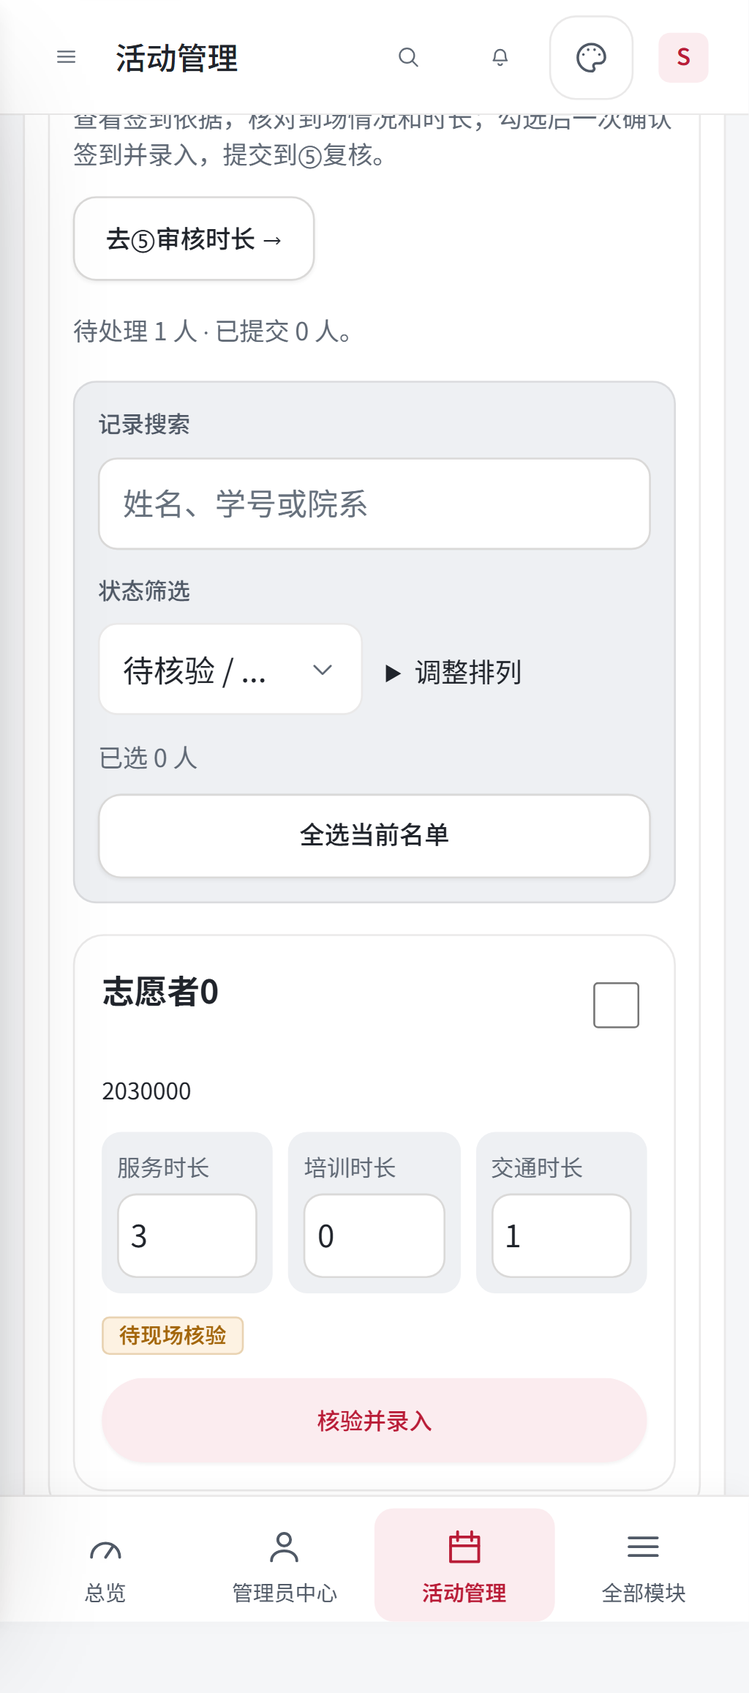
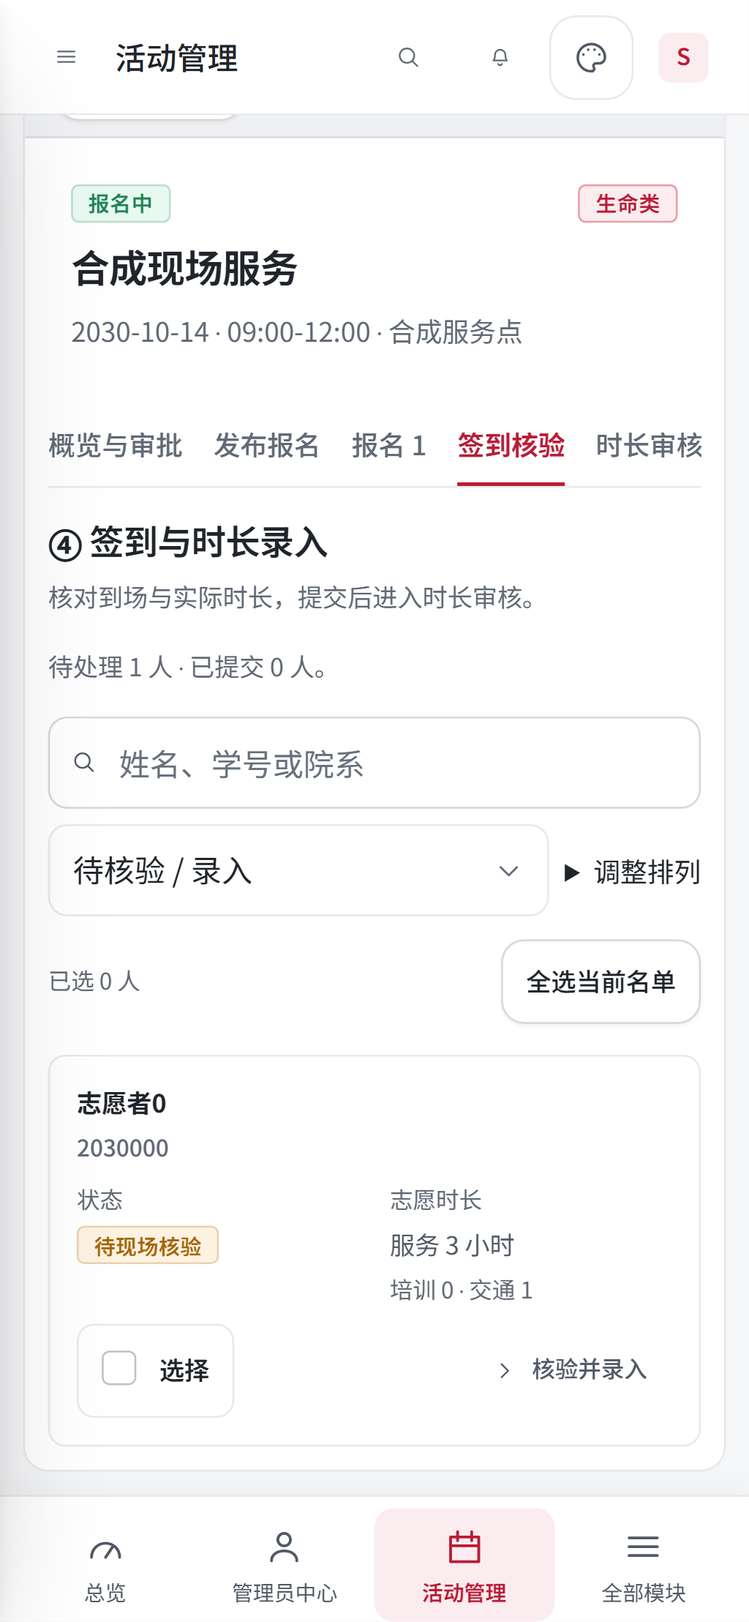
refactor: reuse shared record lists and search in mobile service workspaces

diff --git a/public/styles/admin.css b/public/styles/admin.css
@@ -1306,10 +1306,11 @@ body:has(.form-workspace:not([data-closing])) .toast-root { top:16px; bottom:aut
  .datatable--records table { display:block; min-width:0; width:100%; }
  .datatable--records thead { position:absolute; width:1px; height:1px; overflow:hidden; clip-path:inset(50%); }
  .datatable--records tbody { display:grid; gap:10px; }
- .datatable--records tr { display:grid; grid-template-columns:repeat(2,minmax(0,1fr)); padding:14px; gap:10px 16px; background:var(--surface); border:1px solid var(--border); border-radius:var(--radius-md); }
- .datatable--records td { display:block; border:0; padding:0; min-width:0; max-width:none; white-space:normal; text-align:left; overflow-wrap:anywhere; }
+ .datatable--records tr { display:grid; grid-template-columns:repeat(2,minmax(0,1fr)); padding:14px; gap:10px 16px; background:var(--surface); border:1px solid var(--border); border-radius:var(--r-md); }
+ .datatable--records .table tbody td { display:block; width:auto; height:auto; border:0; padding:0; min-width:0; max-width:none; white-space:normal; text-align:left; overflow-wrap:anywhere; }
  .datatable--records td::before { content:attr(data-label); display:block; font-size:12px; color:var(--text-muted); margin-bottom:4px; }
  .datatable--records td.cell--strong, .datatable--records td:last-child { grid-column:1/-1; }
+ .datatable--records td.cell--strong::before, .datatable--records td[data-label="操作"]::before { display:none; }
  .datatable--records tr[data-clickable="true"] td:not([data-summary="true"]) { display:none; }
  .datatable--records .btn { min-height:44px; }
  .table-pagination .btn { min-height:44px; }
@@ -1888,61 +1889,31 @@ body:has(.form-workspace:not([data-closing])) .toast-root { top:16px; bottom:aut
   }
 }
 
-/* Attendance and hours share the activity center's compact mobile surfaces. */
-@media (max-width:720px) {
+/* Service pages reuse the shared recordTable phone cards and search control. */
+.service-mobile-records { display:none; }
+@media (max-width:800px) {
+  .service-desktop-records { display:none; }
+  .service-mobile-records { display:block; }
+  .service-mobile-records > .toolbar { display:none; }
   .console .activity-center:has(.is-service-stage) { padding:12px; }
   .console .activity-center .is-service-stage { padding:12px; }
-  .console .activity-center .service-workspace { padding:12px; border-radius:16px; }
-  .service-heading { flex-direction:column; gap:12px; }
-  .field-attendance .service-heading .service-primary-actions { display:flex; }
-  .service-primary-actions { display:grid; grid-template-columns:repeat(2,minmax(0,1fr)); width:100%; }
-  .service-primary-actions > .field { grid-column:1/-1; width:100%; }
-  .service-primary-actions .btn:only-child { grid-column:1/-1; }
-  .service-heading .btn { min-width:0; white-space:normal; }
-  .service-table-operations { position:static; display:grid; gap:12px; padding:12px; background:var(--bg-sunken); }
-  .service-tools--attendance, .service-tools--review { grid-template-columns:repeat(2,minmax(0,1fr)); }
-  .service-tools > .field:first-child { grid-column:1/-1; }
-  .service-selection-tools { display:flex; flex-wrap:wrap; width:100%; gap:8px; }
-  .service-table-operations .service-selection-tools { margin:0; }
-  .service-selection-tools > span { flex-basis:100%; font-size:13px; }
-  .service-selection-tools .btn { flex:1 1 40%; min-height:44px; white-space:normal; }
-  .service-selection-tools .btn--primary { flex-basis:100%; }
+  .console .activity-center .service-workspace { padding:0; border:0; background:transparent; }
+  .service-heading { flex-direction:column; gap:8px; }
+  .service-heading h3 { font-size:18px; }
+  .field-attendance .service-heading .service-primary-actions { display:none; }
+  .service-primary-actions { width:100%; }
+  .service-table-operations { position:static; display:grid; grid-template-columns:minmax(0,1fr); gap:12px; padding:0; border:0; background:transparent; }
+  .service-tools--attendance, .service-tools--review { grid-template-columns:minmax(0,1fr) auto; gap:8px; }
+  .service-tools > .search-field { grid-column:1/-1; width:100%; }
+  .service-tools .field__label { position:absolute; width:1px; height:1px; overflow:hidden; clip-path:inset(50%); }
   .service-sort-options summary { min-height:44px; }
-  .service-table-scroll { border:0; overflow:visible; max-height:none; }
-  .service-table.service-table--fit { display:block; table-layout:auto; min-width:0; }
-  .service-table--fit colgroup, .service-table thead { display:none; }
-  .service-table tbody { display:grid; gap:12px; }
-  .service-table tr { display:grid; grid-template-columns:repeat(3,minmax(0,1fr)); gap:12px 8px; padding:14px; border:1px solid var(--border); border-radius:16px; background:var(--surface); }
-  .service-table.service-table--fit td { position:static; display:block; min-width:0; max-width:none; padding:0; height:auto; border:0; text-align:left; background:transparent; overflow-wrap:anywhere; }
-  .service-table.service-table--fit td:is([data-label="院系"], [data-label="红会身份"], [data-label="签到依据"], [data-label="具体工作地点"], [data-label="正式工作日期"], [data-label="志愿者工作内容"], [data-label="备注"]) { display:none; }
-  .service-table td::before { content:attr(data-label); display:block; margin-bottom:4px; color:var(--text-muted); font-size:12px; font-weight:400; }
-  .service-table td[data-label="姓名"] { grid-column:1/3; grid-row:1; }
-  .service-table td[data-label="姓名"] strong { font-size:17px; }
-  .service-table td[data-label="选择"] { grid-column:3; grid-row:1; justify-self:end; }
-  .service-table td[data-label="学号"], .service-table td[data-label="状态"], .service-table td[data-label="签到依据"], .service-table td[data-label="具体工作地点"], .service-table td[data-label="正式工作日期"], .service-table td[data-label="志愿者工作内容"], .service-table td[data-label="备注"], .service-table td[data-label="操作"] { grid-column:1/-1; }
-  .service-table td[data-label="院系"] { grid-column:1/3; }
-  .service-table td[data-label="姓名"]::before, .service-table td[data-label="选择"]::before, .service-table td[data-label="学号"]::before, .service-table td[data-label="状态"]::before, .service-table td[data-label="操作"]::before { display:none; }
-  .service-table--fit td > .stack-1, .service-table--fit td > .stack-2, .service-table td .badge { align-items:flex-start; align-self:flex-start; }
-  .service-table .service-evidence-summary { display:flex; flex-direction:row; align-items:center; justify-content:space-between; gap:8px; }
-  .service-table .service-evidence-summary .btn { min-height:44px; }
-  .service-table input[type="checkbox"] { width:24px; height:24px; margin:10px; }
-  .service-table.service-table--fit .service-hour-input { width:100%; min-height:44px; font-size:16px; text-align:left; }
-  .service-table.service-table--fit .service-work-input { min-width:0; min-height:72px; font-size:16px; text-align:left; }
-  .service-table td[data-label="操作"] .btn { width:100%; min-height:44px; }
-  .service-table.service-table--fit .service-hours-cell, .service-table.service-table--fit .service-duration-value { padding:8px; border-radius:10px; background:var(--bg-sunken); }
-  .service-table td .badge { width:fit-content; }
+  .service-selection-tools { width:100%; justify-content:flex-start; }
+  .service-selection-tools > span { margin-right:auto; }
+  .service-selection-tools .btn { min-height:44px; }
   .service-bulk-field { grid-template-columns:minmax(0,1fr); gap:6px; }
   .service-date-line { flex-wrap:wrap; }
   .service-date-line > span { flex-basis:100%; }
   .field-inspector .hours-fields { grid-template-columns:minmax(0,1fr); gap:12px; }
   .field-edit-dialog .drawer__foot { display:flex; }
   .field-edit-dialog .drawer__foot > .btn { flex:1 1 100%; }
-  .service-sheet-scroll { overflow:visible; max-height:none; border:0; }
-  .service-sheet { display:block; min-width:0; }
-  .service-sheet thead { display:none; }
-  .service-sheet tbody { display:grid; gap:12px; }
-  .service-sheet tr { display:grid; grid-template-columns:repeat(2,minmax(0,1fr)); gap:12px; padding:16px; border:1px solid var(--border); border-radius:16px; }
-  .service-sheet td { display:block; min-width:0; max-width:none; padding:0; border:0; text-align:left; }
-  .service-sheet td::before { content:attr(data-label); display:block; color:var(--text-muted); font-size:12px; margin-bottom:4px; }
-  .service-sheet td[data-label="正式工作日期"], .service-sheet td[data-label="具体工作地点"], .service-sheet td[data-label="志愿者具体工作内容"], .service-sheet td[data-label="备注"] { grid-column:1/-1; }
 }

diff --git a/public/app/console/pages/activity-service.js b/public/app/console/pages/activity-service.js
@@ -8,6 +8,8 @@ import { hoursWorkspace } from './hours-workspace.js';
 import { hoursFields, entryValues } from './hours-fields.js';
 import { bulkHoursFields } from './bulk-hours-fields.js';
 import { attendanceEvidenceState } from './attendance-evidence-state.js';
+import { serviceRecords } from './service-records.js';
+import { searchField } from '../../ui/search-field.js';
 
 const root = '/api/volunteer/workflow';
 const tone = row => ['已批准', '已入账'].includes(row?.['状态']) ? 'success' : 'warning';
@@ -76,6 +78,8 @@ export function serviceWorkspace({ event, events = [event], registrations, ledge
       })));
   }
   function updateSelection() {
+    content.querySelector('.service-mobile-records')?.syncSelection(busy);
+    for (const input of content.querySelectorAll('input[data-service-selection]')) input.checked = state.selected.has(input.dataset.serviceSelection);
     const selectable = visible.filter(item => item.enabled);
     if (selectAll) {
       selectAll.checked = selectable.length > 0 && selectable.every(item => state.selected.has(item.id));
@@ -90,7 +94,7 @@ export function serviceWorkspace({ event, events = [event], registrations, ledge
   }
   function checkbox(id, enabled) {
     if (!enabled) return h('span', { class: 't-caption', text: '—' });
-    const input = h('input', { type: 'checkbox', disabled: !enabled || busy, 'aria-label': '选择此记录', on: { change: () => {
+    const input = h('input', { type: 'checkbox', data: { serviceSelection: id }, disabled: !enabled || busy, 'aria-label': '选择此记录', on: { change: () => {
       if (input.checked) state.selected.add(id); else state.selected.delete(id);
       input.closest('tr')?.classList.toggle('is-selected', input.checked); updateSelection();
     } } });
@@ -156,7 +160,14 @@ export function serviceWorkspace({ event, events = [event], registrations, ledge
           cell('操作', edit || h('div', { class: 'stack-2' }, h('small', { text: submitted.has(id) ? '已提交，请刷新查看最新记录' : attendanceBlockReason(registration, entry, blood) }), button({ label: '查看签到详情', size: 'sm', onClick: () => showAttendance(registration) }))));
       tbody.append(row);
     }
-    content.append(h('div', { class: 'service-table-scroll', tabindex: 0, 'aria-label': '签到核验表' },
+    content.append(serviceRecords({ rows: rows.map(registration => ({ id: registration._id, registration,
+      name: registration['姓名'], studentId: registration['学号'],
+      context: events.length > 1 ? `${registration['报名日期']} ${registration['报名时段']}` : '',
+      hours: draft(registration), status: serviceStatus(ownLedger(registration), false, registration, blood), tone: tone(ownLedger(registration)),
+      enabled: eligible(registration), action: eligible(registration) ? '核验并录入' : '查看签到详情' })),
+      selected: state.selected, busy, open: row => showAttendance(row.registration),
+      onSelect: (id, checked) => { if (checked) state.selected.add(id); else state.selected.delete(id); updateSelection(); } }));
+    content.append(h('div', { class: 'service-table-scroll service-desktop-records', tabindex: 0, 'aria-label': '签到核验表' },
       h('table', { class: 'service-table service-table--fit' }, h('caption', { class: 'sr-only', text: '签到及实际时长录入表' }), h('colgroup', {}, ...[3, 6, 8, 8, 7, 12, 6, 6, 6, 18, 8, 12].map(width => h('col', { vars: { 'column-width': `${width}%` } }))), tableHead(columns), tbody)));
     const scroller = content.querySelector('.service-table-scroll'); if (scroller) { scroller.scrollLeft = scrollLeft; scroller.scrollTop = scrollTop; }
     updateSelection();
@@ -247,7 +258,7 @@ export function serviceWorkspace({ event, events = [event], registrations, ledge
       clear(memberFeedback); memberFeedback.append(notice('成员资料暂时无法读取，身份显示待确认。', { tone: 'warning' }), button({ label: '重试成员资料', onClick: loadMembers }));
     }
   }
-  const search = field({ label: '记录搜索', type: 'search', value: state.search, placeholder: '姓名、学号或院系', onInput: e => { state.search = e.target.value; renderTable(); } });
+  const search = searchField({ label: '记录搜索', value: state.search, placeholder: '姓名、学号或院系', onSearch: value => { state.search = value; renderTable(); } });
   const filter = field({ label: '状态筛选', value: state.filter, options: [{ value: 'todo', label: '待核验 / 录入' }, { value: 'submitted', label: '已提交' }, { value: 'all', label: '全部名单' }], onInput: e => { state.filter = e.target.value; renderTable(); } });
   const sort = field({ label: '排列方式', value: state.sort, options: [{ value: 'time', label: '报名时间' }, { value: 'name', label: '姓名' }, { value: 'id', label: '学号' }], onInput: e => { state.sort = e.target.value; renderTable(); } });
   const sortDirection = button({ label: state.sortDirection === 'asc' ? '升序 ↑' : '降序 ↓', variant: 'secondary', onClick: () => {
@@ -259,7 +270,7 @@ export function serviceWorkspace({ event, events = [event], registrations, ledge
   const pending = ledger.filter(row => row['状态'] === '待批准').length;
   const approved = ledger.filter(row => ['已批准', '已入账'].includes(row['状态']));
   node.append(h('header', { class: 'service-heading' }, h('div', { class: 'stack-2' }, h('h3', { class: 't-h3', text: '④ 签到与时长录入' }),
-    h('p', { class: 't-caption', text: '查看签到依据，核对到场情况和时长；勾选后一次确认签到并录入，提交到⑤复核。' })),
+    h('p', { class: 't-caption', text: '核对到场与实际时长，提交后进入时长审核。' })),
     h('div', { class: 'service-primary-actions' }, onNavigate ? button({ label: '去⑤审核时长 →', onClick: () => onNavigate('hours') }) : null)));
   node.append(h('p', { class: 'service-counts', text: `待处理 ${registrations.filter(r => ['已确认', '已签到'].includes(r['报名状态']) && matchesServiceFilter('todo', ownLedger(r), false)).length} 人 · 已提交 ${pending + approved.length} 人。` }));
   selectVisible = button({ label: '全选当前名单', variant: 'secondary', onClick: () => { if (busy) return; for (const item of visible.filter(row => row.enabled)) state.selected.add(item.id); renderTable(); } });

diff --git a/public/app/console/pages/hours-workspace.js b/public/app/console/pages/hours-workspace.js
@@ -6,6 +6,9 @@ import { button, field, notice, emptyState, badge } from '../../ui/primitives.js
 import { reviewBlockReason } from './activity-service-state.js';
 import { hoursFields, entryValues } from './hours-fields.js';
 import { bulkHoursFields } from './bulk-hours-fields.js';
+import { serviceRecords } from './service-records.js';
+import { searchField } from '../../ui/search-field.js';
+import { recordTable } from '../lib.js';
 
 // The review page groups displayed rows; all edits and approvals retain individual ledger identities.
 export function hoursWorkspace({ event, actor, superAdmin, state, onSaved }) {
@@ -46,6 +49,7 @@ export function hoursWorkspace({ event, actor, superAdmin, state, onSaved }) {
             : state.sort === 'travel' ? Number(a.row.交通时长 || 0) - Number(b.row.交通时长 || 0) : a.index - b.index));
   }
   function updateSelected() {
+    content.querySelector('.service-mobile-records')?.syncSelection(busy);
     selectedText.textContent = `已选 ${state.selected.size} 人`;
     selectedText.setAttribute('aria-label', `已选 ${state.selected.size} 人，仅处理其中待审核记录`);
     approveButton.hidden = clearSelection.hidden = bulkEdit.hidden = !state.selected.size;
@@ -92,7 +96,14 @@ export function hoursWorkspace({ event, actor, superAdmin, state, onSaved }) {
         h('td', { 'data-label': '状态' }, badge(statusText(entries), { tone: entries.every(approved) ? 'success' : 'warning' })),
         h('td', { 'data-label': '操作' }, edit));
     });
-    content.append(h('div', { class: 'service-table-scroll service-table-scroll--review', tabindex: 0, 'aria-label': '时长复核汇总表' },
+    content.append(serviceRecords({ rows: visible.map(group => ({ id: group.ids[0], group, name: group.row.姓名,
+      studentId: group.row.学号, context: group.ids.length > 1 ? `合并 ${group.ids.length} 次服务` : '',
+      status: statusText(groupEntries(group)), tone: groupEntries(group).every(approved) ? 'success' : 'warning',
+      hours: { serviceHours: group.row.服务时长, trainingHours: group.row.培训时长, travelHours: group.row.交通时长 },
+      enabled: groupEntries(group).some(canEdit), action: groupEntries(group).some(canEdit) ? '编辑信息' : '查看明细' })),
+      selected: state.selected, busy, open: row => editGroup(row.group),
+      onSelect: (id, checked) => { retryIds = null; if (checked) state.selected.add(id); else state.selected.delete(id); updateSelected(); } }));
+    content.append(h('div', { class: 'service-table-scroll service-table-scroll--review service-desktop-records', tabindex: 0, 'aria-label': '时长复核汇总表' },
       h('table', { class: 'service-table service-review-table service-table--fit' }, h('colgroup', {}, ...[3, 6, 8, 8, 8, 12, 6, 6, 6, 15, 5, 7, 10].map(width => h('col', { vars: { 'column-width': `${width}%` } }))), h('thead', {}, h('tr', {},
         h('th', { scope: 'col', text: '选择' }), sortHeader('姓名', 'name'), sortHeader('学号', 'id'), h('th', { scope: 'col', text: '院系' }), h('th', { scope: 'col', text: '具体工作地点' }), h('th', { scope: 'col', text: '正式工作日期' }),
         sortHeader('服务时长', 'service'), sortHeader('培训时长', 'training'), sortHeader('交通时长', 'travel'), h('th', { scope: 'col', text: '志愿者工作内容' }), h('th', { scope: 'col', text: '备注' }), h('th', { scope: 'col', text: '状态' }), h('th', { scope: 'col', text: '操作' }))), h('tbody', {}, ...rows))));
@@ -207,14 +218,16 @@ export function hoursWorkspace({ event, actor, superAdmin, state, onSaved }) {
       try {
         const rows = selectedScope === 'export' ? (await request(`${root}/export-preview${query()}`)).rows : groups().map(g => g.row);
         if (requestId !== revision) return;
-        table.append(h('p', { text: `共 ${rows.length} 人，每人一行。${selectedScope === 'export' ? '与实际Excel导出内容一致。' : '当前筛选范围，含尚未通过的记录。'}` }), h('div', { class: 'service-sheet-scroll', tabindex: 0 },
-          h('table', { class: 'service-sheet' }, h('thead', {}, h('tr', {}, ...review.columns.map(text => h('th', { scope: 'col', text })))), h('tbody', {}, ...rows.map(row => h('tr', {}, ...review.columns.map(column => h('td', { 'data-label': column, text: row[column] ?? '' }))))))));
+        table.append(h('p', { text: `共 ${rows.length} 人，每人一行。${selectedScope === 'export' ? '与实际Excel导出内容一致。' : '当前筛选范围，含尚未通过的记录。'}` }), recordTable({
+          rows, getKey: row => `${row.姓名}:${row.学号}`, searchable: false,
+          columns: review.columns.map(key => ({ key, label: key, strong: key === '姓名', sortable: false })),
+        }));
       } catch (error) { if (requestId === revision) table.append(notice(error.message, { tone: 'warning' })); }
     }
     area.append(field({ label: '预览范围', value: selectedScope, options: [{ value: 'current', label: '当前筛选名单（审核前可看）' }, { value: 'export', label: '已通过名单（实际导出内容）' }], onInput: e => { selectedScope = e.target.value; void show(); } }), table); await show();
   }
   const filter = field({ label: '状态筛选', value: state.filter, options: [{ value: 'todo', label: '待审核' }, { value: 'approved', label: '已通过' }, { value: 'all', label: '全部名单' }], onInput: e => { state.filter = e.target.value; render(); } });
-  const search = field({ label: '记录搜索', type: 'search', value: state.search, placeholder: '姓名、学号或院系', onInput: e => { state.search = e.target.value; render(); } });
+  const search = searchField({ label: '记录搜索', value: state.search, placeholder: '姓名、学号或院系', onSearch: value => { state.search = value; render(); } });
   const sort = field({ label: '排列方式', value: state.sort, options: [{ value: 'time', label: '原始录入顺序' }, { value: 'name', label: '姓名' }, { value: 'id', label: '学号' },
     { value: 'service', label: '服务时长' }, { value: 'training', label: '培训时长' }, { value: 'travel', label: '交通时长' }], onInput: e => { state.sort = e.target.value; render(); } });
   const sortDirection = button({ label: state.sortDirection === 'asc' ? '升序 ↑' : '降序 ↓', variant: 'secondary', onClick: () => {

diff --git a/public/app/console/pages/service-records.js b/public/app/console/pages/service-records.js
@@ -1,0 +1,37 @@
+import { h } from '../../core/dom.js';
+import { badge, button, checkbox } from '../../ui/primitives.js';
+import { recordTable } from '../lib.js';
+
+// Use the same record list, paging, keyboard navigation and phone cards as other workspaces.
+export function serviceRecords({ rows, selected, open, onSelect, busy = false }) {
+  const list = recordTable({
+    rows, getKey: row => row.id, searchable: false,
+    columns: [
+      { key: 'name', label: '志愿者', strong: true, sortable: false, render: row => h('div', { class: 'stack-1' },
+        h('strong', { text: row.name }), h('span', { class: 't-caption', text: row.studentId }),
+        row.context ? h('span', { class: 't-caption', text: row.context }) : null) },
+      { key: 'status', label: '状态', sortable: false, render: row => badge(row.status, { tone: row.tone }) },
+      { key: 'hours', label: '志愿时长', sortable: false, render: row => h('div', { class: 'stack-1' },
+        h('span', { text: `服务 ${row.hours.serviceHours ?? 0} 小时` }),
+        h('span', { class: 't-caption', text: `培训 ${row.hours.trainingHours ?? 0} · 交通 ${row.hours.travelHours ?? 0}` })) },
+    ],
+    onRowClick: open,
+    buildRowAction: row => {
+      const select = row.enabled ? checkbox({ label: '选择', checked: selected.has(row.id),
+        onChange: checked => onSelect(row.id, checked) }) : null;
+      if (select) { select.control.disabled = busy; select.control.setAttribute('aria-label', `选择${row.name}`); }
+      return h('div', { class: 'row-between row-wrap' }, select || h('span', { class: 't-caption', text: row.note || '' }),
+        button({ label: row.action, variant: 'ghost', size: 'sm', iconName: 'chevronRight', onClick: () => open(row) }));
+    },
+  });
+  list.classList.add('service-mobile-records');
+  list.syncSelection = saving => {
+    for (const row of list.querySelectorAll('tr[data-row-key]')) {
+      const checked = selected.has(row.dataset.rowKey), input = row.querySelector('input[type="checkbox"]');
+      row.dataset.selected = String(checked);
+      if (input) { input.checked = checked; input.disabled = saving; input.closest('.check').dataset.checked = String(checked); }
+    }
+  };
+  list.syncSelection(busy);
+  return list;
+}

diff --git a/docs/WORKFLOW.md b/docs/WORKFLOW.md
@@ -58,7 +58,7 @@ flowchart TD
 
 审核与导出是独立操作：审核成功后不自动下载，点击「导出 Excel」下载真实 `.xlsx`，下载失败可再次点击重试。文件只包含已批准/已入账记录，保持姓名、院系、学号、具体工作地点、正式工作日期、培训时长、交通时长、服务时长、志愿者具体工作内容、备注这十列。下载不会向第二课堂提交数据；由主任团按原流程录入。同步个人记录仍为独立操作。
 
-手机宽度（720px 及以下）的签到核验、时长审核和在线预览使用逐人卡片。列表卡片展示姓名、学号、状态、三类时长和主要操作；院系、签到依据、日期、地点、工作内容及备注通过「核验并录入」或「查看明细 / 编辑信息」进入详情核对。筛选与批量操作随页面滚动，详情表单单列排列。在线导出预览保留全部字段。桌面继续使用表格，Excel 下载列与审核规则沿用原流程。
+手机宽度（800px 及以下）的签到核验、时长审核和在线预览复用后台通用 `recordTable`，搜索复用带图标的 `searchField`。列表用只读摘要展示姓名、学号、状态和三项时长，每页 25 人；选择与逐人操作沿用共享复选框和按钮。点击记录或操作进入核验 / 明细面板编辑，详情表单单列排列。在线导出预览使用同一列表组件展示完整字段。桌面保留可编辑表格，Excel 下载列与审核规则沿用原流程。
 
 ④录入与⑤待审核明细均可编辑七项服务信息：具体工作地点、正式工作日期、培训/交通/服务时长、工作内容和备注；姓名、院系、学号只读。⑤通过“编辑明细”修改每次服务，保存后重新汇总，不自动批准，也不把合计重复写入每条明细。保留原核对人，另记修订人/时间；已通过的记录不开放直接修改。
 
